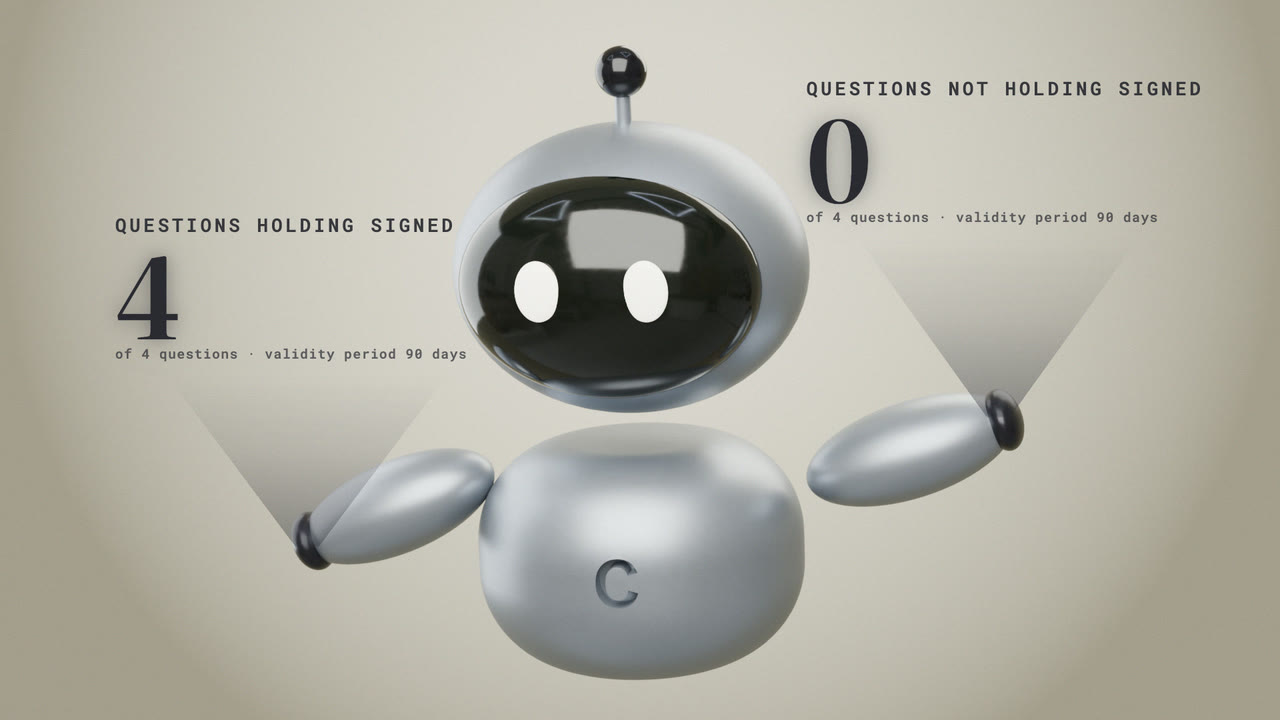
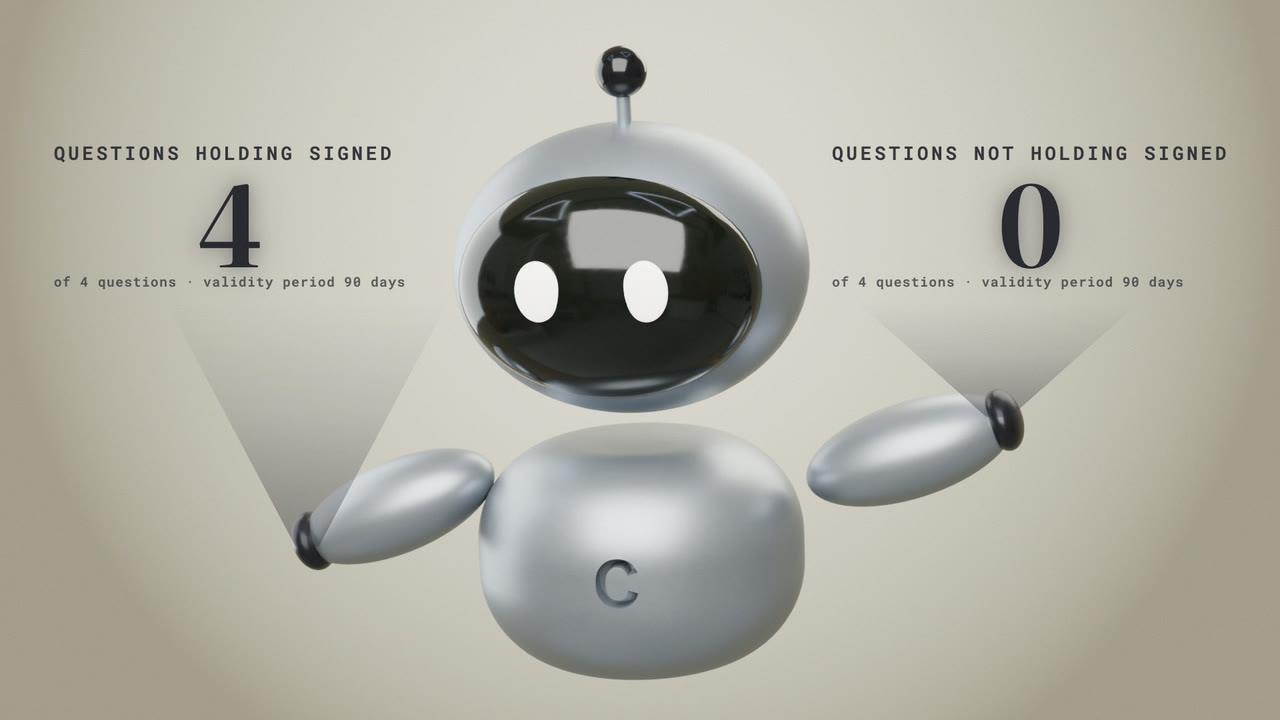
The Dossier poster sets its two counts level, each centered between its lines
Two single-digit counts (4 holding, 0 not holding) read as a pair. Placed one
per palm, at two heights, they looked misaligned. When both figures are counts,
the composer now sets them at the same height with equal side margins, centers
each figure between its label and its line, and lets only the beams stretch
down to the palms. Percentage posters keep their layout.

Checked: verif-final green (348 size combos without overflow, captures,
instruments, pricing, mechanical gate on the five pages).

diff --git a/source/etats/affiche-dossier.html b/source/etats/affiche-dossier.html
@@ -8,6 +8,7 @@
   .holo{position:absolute;color:#2a2a31;font-family:"Literata",Georgia,serif;
     font-variant-numeric:tabular-nums;font-weight:600;letter-spacing:-.02em;line-height:1}
   .holo .n{display:block;font-size:168px;text-shadow:0 0 28px #2a2a3166,0 0 70px #2a2a3133}
+  .holo .n{text-align:center}
   .holo .n small{font-size:96px;font-weight:500}
   .holo .l{display:block;font-family:"Roboto Mono",ui-monospace,Menlo,monospace;font-size:28px;
     letter-spacing:.16em;text-transform:uppercase;margin-bottom:14px;opacity:.92}
@@ -19,14 +20,14 @@
 </style>
 <div id="scene">
   <img id="plate" src="affiche-dossier-plaque.png" alt="">
-  <div class="faisceau" style="left:13.0%;top:52.0%;height:24.0%"></div>
-  <div class="faisceau" style="left:67.0%;top:33.0%;height:25.0%"></div>
-  <div class="holo" style="left:9.0%;top:30.0%">
+  <div class="faisceau" style="left:13.0%;top:42.0%;height:34.0%"></div>
+  <div class="faisceau" style="left:67.0%;top:42.0%;height:16.0%"></div>
+  <div class="holo" style="left:4.2%;top:20.0%">
     <span class="l">questions holding signed</span>
     <span class="n">4</span>
     <span class="s">of 4 questions &#183; validity period 90 days</span>
   </div>
-  <div class="holo" style="left:63.0%;top:11.0%">
+  <div class="holo" style="left:65.0%;top:20.0%">
     <span class="l">questions not holding signed</span>
     <span class="n">0</span>
     <span class="s">of 4 questions &#183; validity period 90 days</span>

diff --git a/source/etats/affiche-composer.py b/source/etats/affiche-composer.py
@@ -96,6 +96,14 @@ PAUMES = {"g": (24.0, 76.0), "d": (78.0, 58.0)}
 HAUT = {"g": 30.0, "d": 11.0}                  # le haut de chaque hologramme
 LARGEUR_FAISCEAU = 22.0                        # % du cadre (420 px sur 1920)
 POS = {c: {"x": PAUMES[c][0] - 15.0, "y": HAUT[c]} for c in PAUMES}
+# deux COMPTES (le Dossier : 4 et 0) se lisent comme une paire : décalés d'une paume à
+# l'autre, deux chiffres d'un seul caractère ont l'air mal alignés (Arslane, 29/09). Ils
+# se posent à la même hauteur, dégagés de la tête, et seuls les faisceaux s'allongent.
+# et chaque chiffre seul se centre entre ses deux lignes, comme un nombre large les remplit
+COMPTES = not A["pourcent"] and not B["pourcent"]
+if COMPTES:
+    HAUT = {"g": 20.0, "d": 20.0}
+    POS = {"g": {"x": 4.2, "y": 20.0}, "d": {"x": 65.0, "y": 20.0}}    # marges égales, 54 px sur 1280
 FAISCEAU = {c: {"x": PAUMES[c][0] - LARGEUR_FAISCEAU / 2, "y": HAUT[c] + 22.0,
                 "h": PAUMES[c][1] - (HAUT[c] + 22.0)} for c in PAUMES}
 html = f"""<!doctype html><html lang="en"><meta charset="utf-8"><title>affiche {outil_id}</title>
@@ -108,6 +116,7 @@ html = f"""<!doctype html><html lang="en"><meta charset="utf-8"><title>affiche {
   .holo{{position:absolute;color:{ENCRE};font-family:"Literata",Georgia,serif;
     font-variant-numeric:tabular-nums;font-weight:600;letter-spacing:-.02em;line-height:1}}
   .holo .n{{display:block;font-size:168px;text-shadow:0 0 28px {ENCRE}66,0 0 70px {ENCRE}33}}
+  {'.holo .n{text-align:center}' if COMPTES else ''}
   .holo .n small{{font-size:96px;font-weight:500}}
   .holo .l{{display:block;font-family:"Roboto Mono",ui-monospace,Menlo,monospace;font-size:28px;
     letter-spacing:.16em;text-transform:uppercase;margin-bottom:14px;opacity:.92}}
